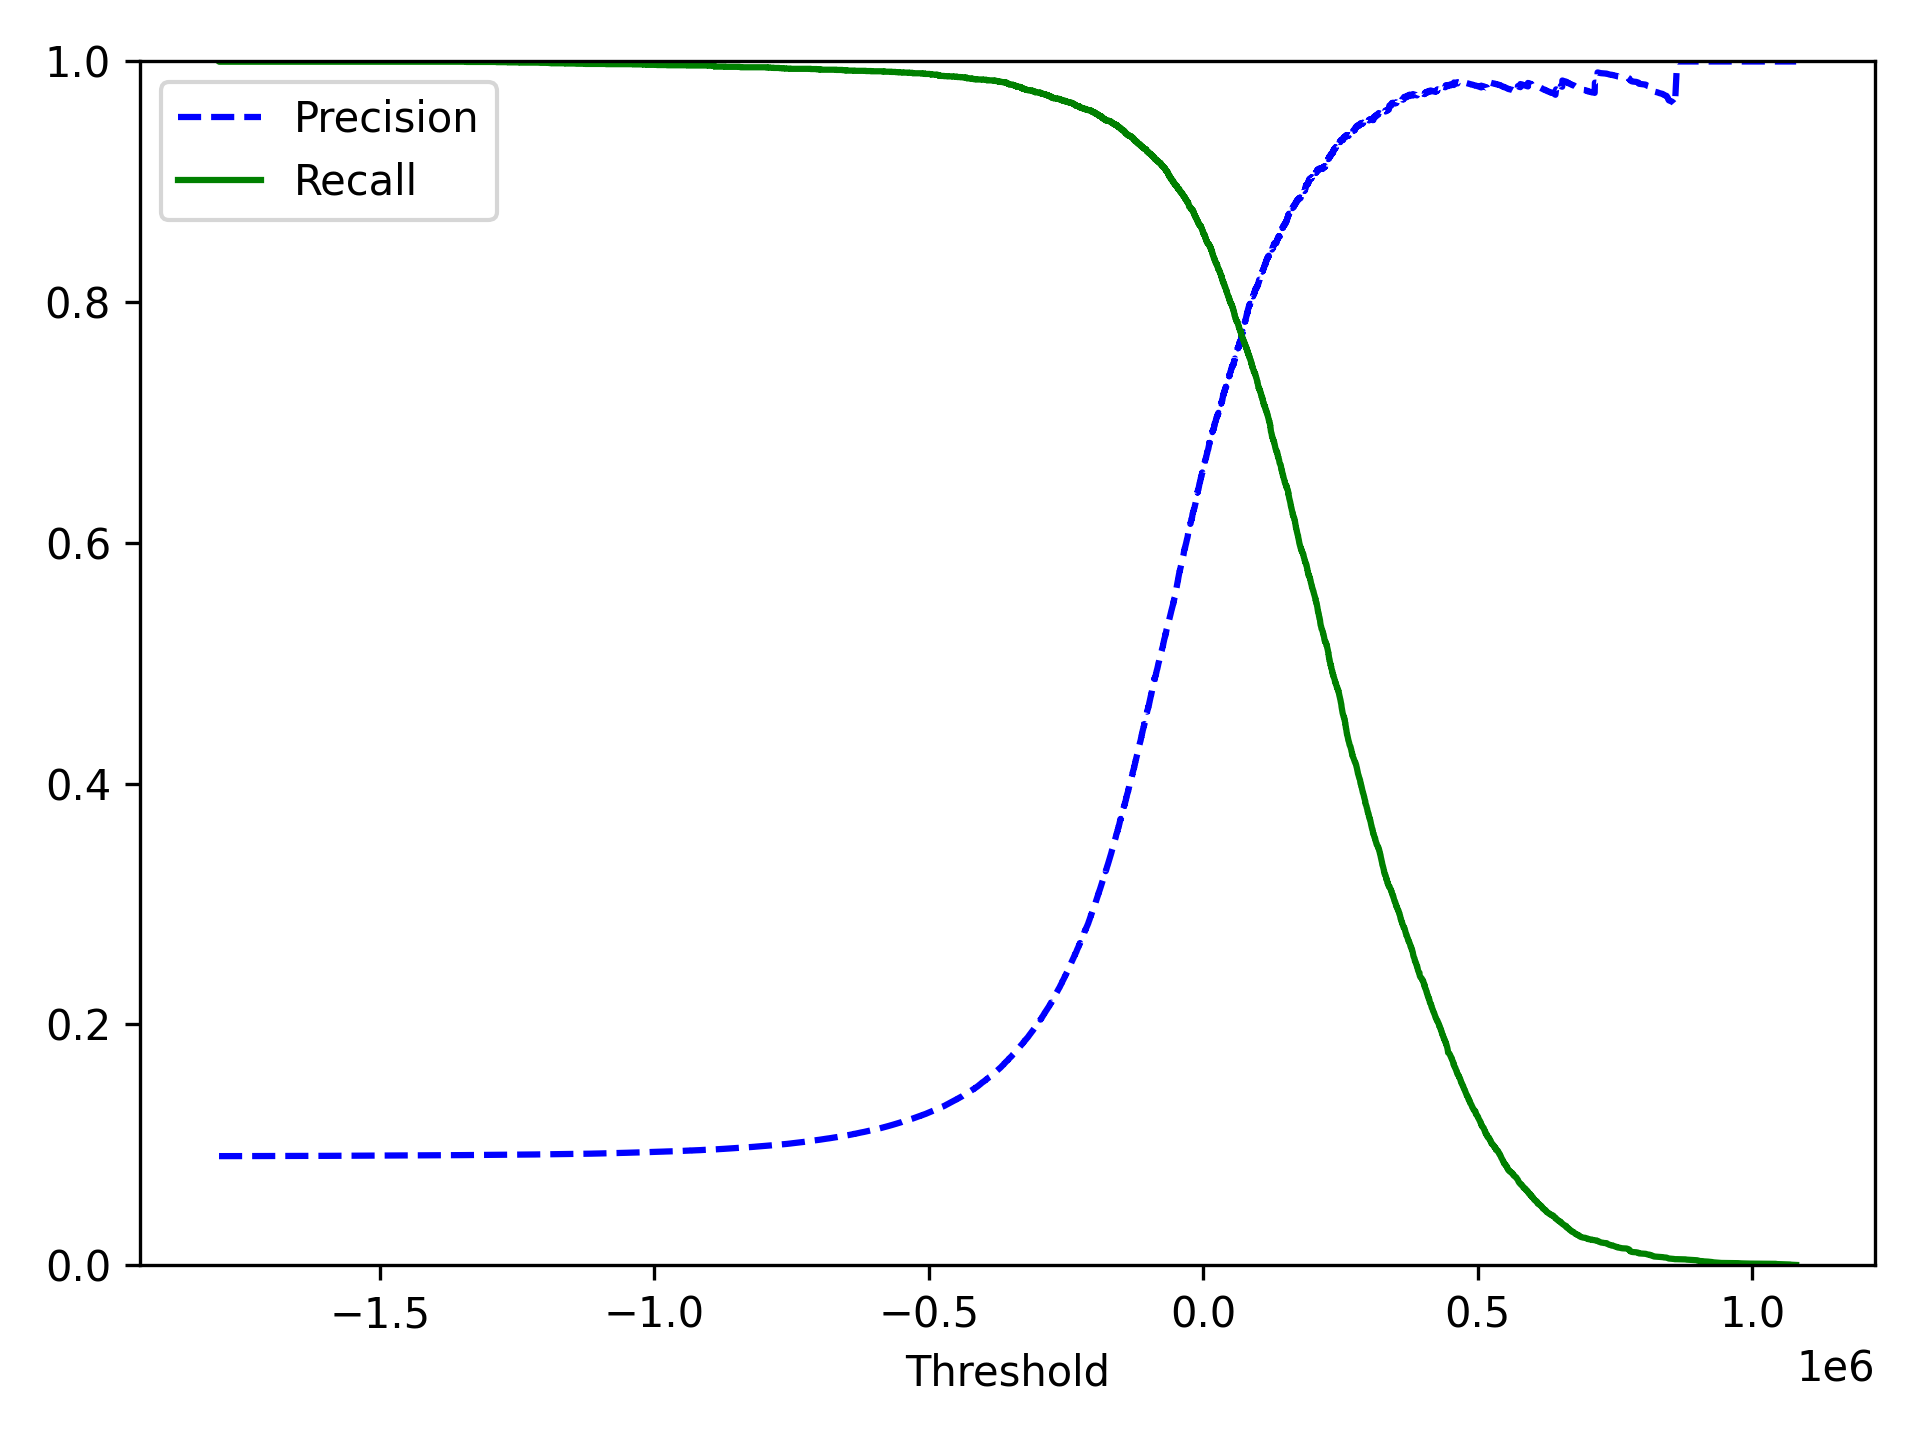
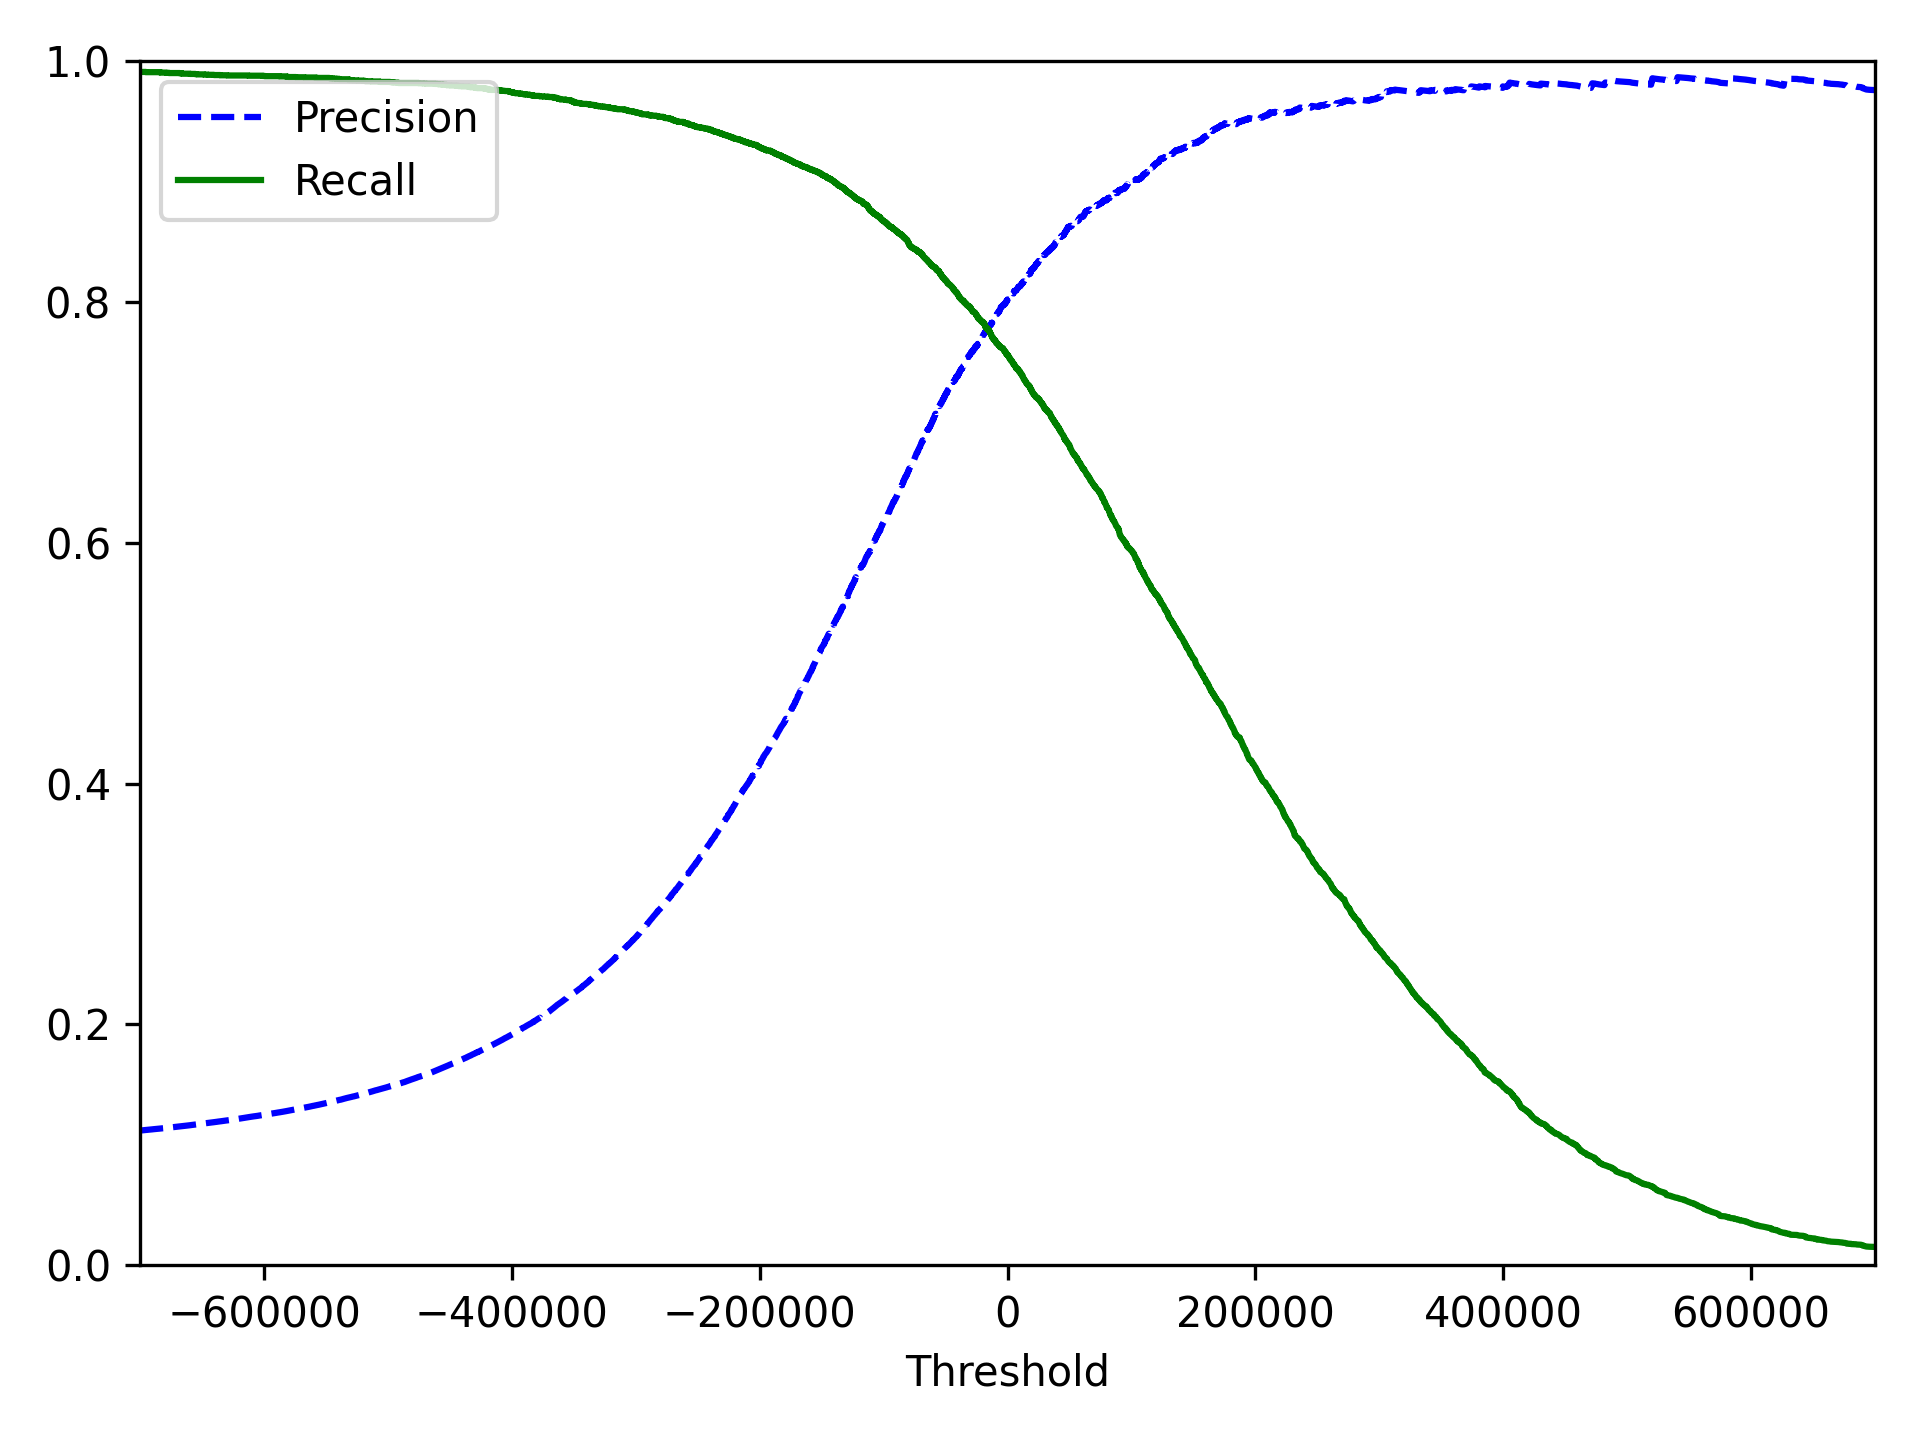
Limit x axis to 700000

diff --git a/chap-3/classification.py b/chap-3/classification.py
@@ -38,7 +38,8 @@ def main():
     # print(f'Prediction result (threshold: {threshold}): {y_some_digit_pred}\n')
 
     y_train_pred = cross_val_predict(sgd_clf, X_train, y_train_5, cv=3, method="decision_function")
-    precisions, recalls, thresholds = precision_recall_curve(y_train_5, y_train_pred)
+    y_scores = cross_val_predict(sgd_clf, X_train, y_train_5, cv=3, method="decision_function")
+    precisions, recalls, thresholds = precision_recall_curve(y_train_5, y_scores)
 
     plot_precision_recall_vs_threshold(precisions, recalls, thresholds)
     save_fig('precision-recall-threshold')
@@ -87,6 +88,7 @@ def plot_precision_recall_vs_threshold(precisions, recalls, thresholds):
     plt.xlabel("Threshold")
     plt.legend(loc="upper left")
     plt.ylim([0, 1])
+    plt.xlim([-700000, 700000])
 
 class Never5Classifier(BaseEstimator):
     def fit(self, X, y=None):
